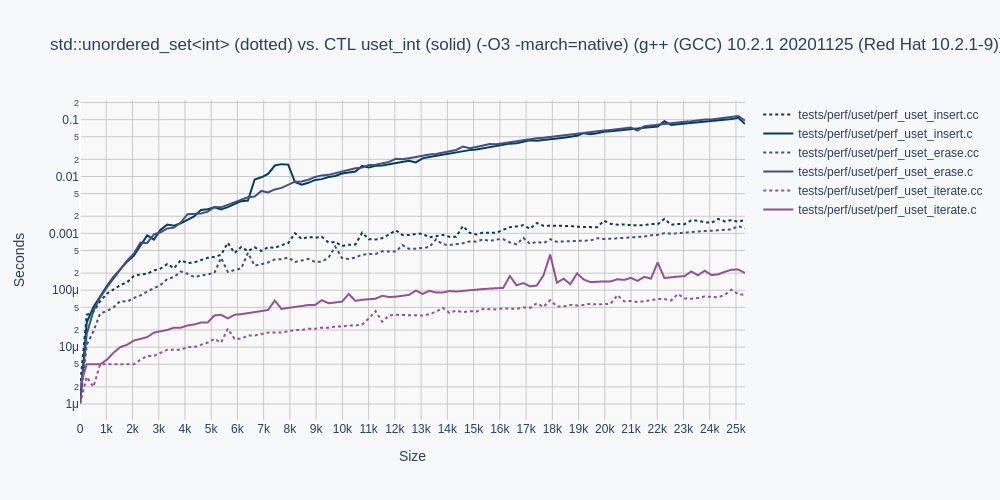
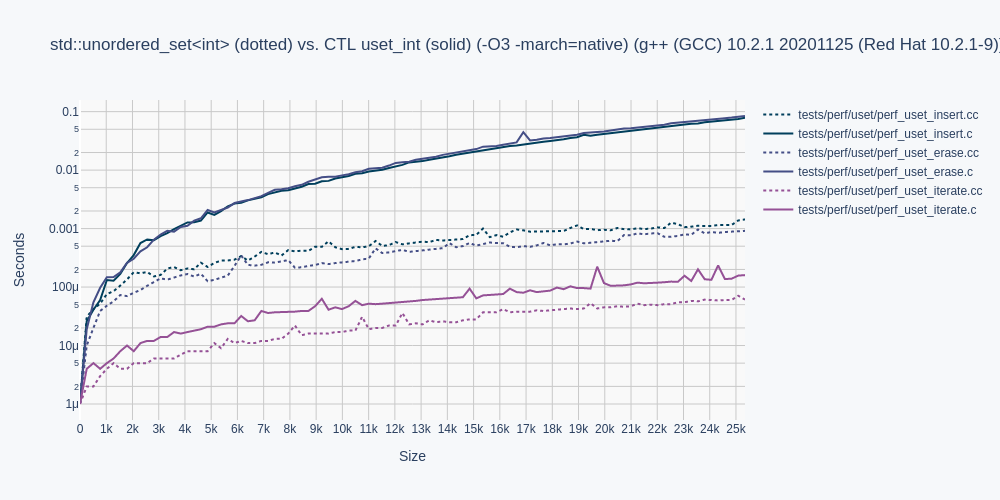
uset: fix leaks, dont reserve 2x
at the beginning it is always empty, but already reserved.

ignore size, i.e. collisions when rehash on insert. just check if we
added too many buckets.
this might be a DDOS security risk, when adding too many collisions.
we should add a size/load_factor check somewhere in rarely used code,
rehash probably.

Changed region(s): [[0.031, 0.21, 0.744, 0.78]]

diff --git a/ctl/unordered_set.h b/ctl/unordered_set.h
@@ -232,8 +232,11 @@ JOIN(A, reserve)(A* self, size_t desired_count)
         memset(&self->buckets[self->bucket_count], 0, (new_size - self->bucket_count) * sizeof(B*));
     }
     else
+    {
+        LOG("reserve %zu calloc => %zu\n", self->bucket_count, new_size);
         self->buckets = (B**) calloc(new_size, sizeof(B*));
-    self->bucket_count = new_size;
+    }
+    self->max_bucket_count = self->bucket_count = new_size;
 #if defined(_ASSERT_H) && !defined(NDEBUG)
     assert (self->buckets && "out of memory");
 #endif
@@ -273,7 +276,6 @@ JOIN(A, rehash)(A* self, size_t desired_count)
             *buckets = JOIN(B, push)(*buckets, it.node);
     }
     rehashed.size = self->size;
-    self->max_bucket_count = JOIN(A, max_bucket_count)(self);
     *self = rehashed;
 }
 
@@ -300,13 +302,12 @@ JOIN(A, insert)(A* self, T value)
     }
     else
     {
-        if(JOIN(A, empty)(self))
+        if(!self->bucket_count)
             JOIN(A, rehash)(self, 12);
         B** bucket = JOIN(A, _bucket)(self, value);
         *bucket = JOIN(B, push)(*bucket, JOIN(B, init)(value));
         LOG ("insert: add bucket[%zu]\n", JOIN(B, bucket_size)(*bucket));
         self->size++;
-        self->max_bucket_count = JOIN(A, max_bucket_count)(self);
         if (self->bucket_count > self->max_bucket_count)
         {
             size_t bucket_count = 2 * self->bucket_count;
@@ -327,12 +328,11 @@ JOIN(A, emplace)(A* self, T* value)
     }
     else
     {
-        if(JOIN(A, empty)(self))
+        if(!self->bucket_count)
             JOIN(A, rehash)(self, 12);
         B** bucket = JOIN(A, _bucket)(self, value);
         *bucket = JOIN(B, push)(*bucket, JOIN(B, init)(*value));
         self->size++;
-        self->max_bucket_count = JOIN(A, max_bucket_count)(self);
         if (self->bucket_count > self->max_bucket_count)
         {
             size_t max_bucket_count = JOIN(A, max_bucket_count)(self);

diff --git a/tests/func/test_unordered_set.cc b/tests/func/test_unordered_set.cc
@@ -80,6 +80,7 @@ test_small_size(void)
     // TODO a.equal = digi_equal
     uset_digi_insert(&a, digi_init(1));
     uset_digi_insert(&a, digi_init(2));
+    print_uset(&a);
     uset_digi_free(&a);
 }
 
@@ -130,7 +131,7 @@ main(void)
             TEST_TOTAL,
         };
         int which = TEST_RAND(TEST_TOTAL);
-        if (test >= 0 && test < (int)TEST_TOTAL)
+        //if (test >= 0 && test < (int)TEST_TOTAL)
             which = test;
         LOG ("TEST %d\n", which);
         switch(which)
